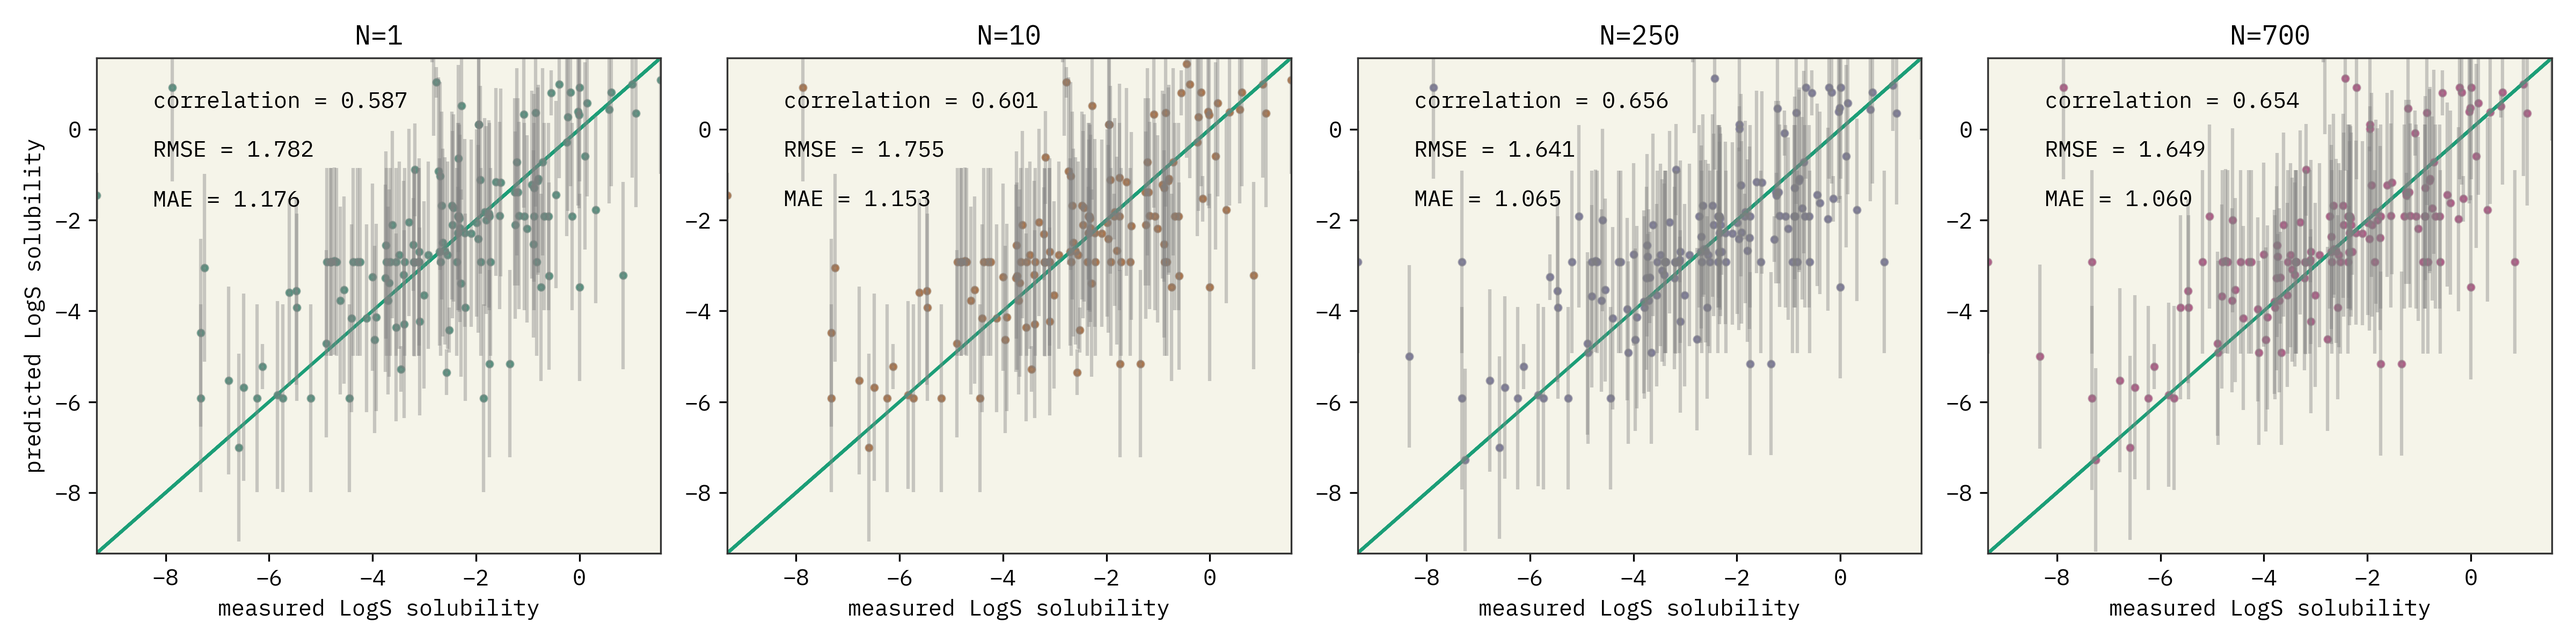
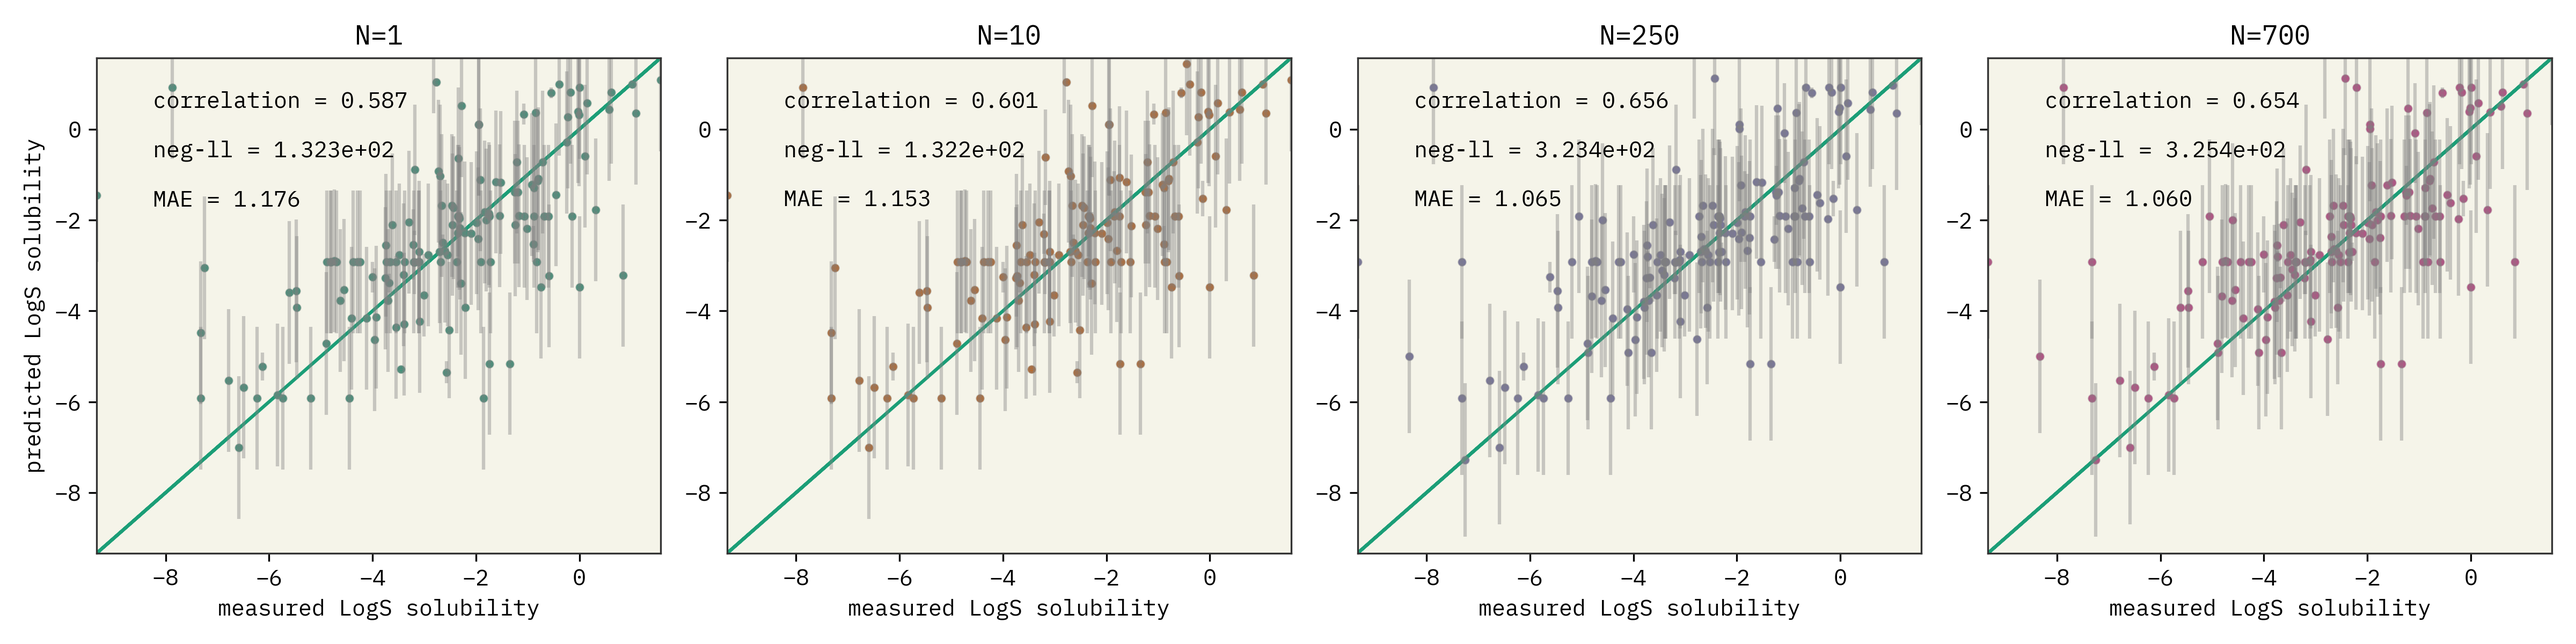
update results

diff --git a/bolift/asktellGPR.py b/bolift/asktellGPR.py
@@ -86,26 +86,28 @@ class AskTellGPR(AskTellFewShotTopk):
         constant_kernel = ConstantKernel(constant_value=1.0, constant_value_bounds="fixed")
         cos_kernel = constant_kernel * cosine_kernel
         self.regressor = GaussianProcessRegressor(
+            kernel=cos_kernel, n_restarts_optimizer=2,
+            alpha=0.001, normalize_y=False
             # kernel=RBF(length_scale=1e-3, length_scale_bounds=(1e-10, 1e1)),
-            kernel=cos_kernel,
-            n_restarts_optimizer=2,
-            normalize_y=True,
+            # kernel=cos_kernel,
+            # n_restarts_optimizer=2,
+            # normalize_y=True,
         )
 
 
     def _predict(self, X):
         if(len(X) == 0):
             raise ValueError("X is empty")
-        # embedding=self._query_cache(X)
-        embedding = np.array(self._embedding.embed_documents(X, 250))
+        embedding=self._query_cache(X)
+        # embedding = np.array(self._embedding.embed_documents(X, 250))
         results = []
         means, stds = self.regressor.predict(embedding, return_std=True)
         results = [GaussDist(mean, std) for mean, std in zip(means, stds)]
         return results, 0
 
     def _train(self, X, y):
-        # embedding=self._query_cache(X)
-        embedding = np.array(self._embedding.embed_documents(X, 250))
+        embedding=self._query_cache(X)
+        # embedding = np.array(self._embedding.embed_documents(X, 250))
         self.regressor.fit(embedding, list(map(float, y)))
 
 
